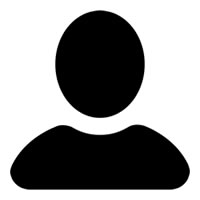
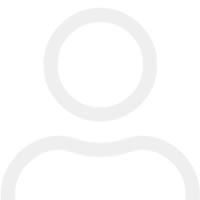
Se agrega sección de cumpleaños front y vista mysql

diff --git a/resources/css/home.css b/resources/css/home.css
@@ -62,3 +62,74 @@
 	padding: 2rem;
 	text-align: justify;
 }
+
+.tarjetaCumple {
+	display: table;
+    width: 90%;
+    min-height: 300px;
+    left: 0;
+    right: 0;
+    margin: 0 auto;
+	border-radius: 0.5rem;
+    border: solid 1px var(--gris);
+    -webkit-box-shadow: 0 5px 10px 0 var(--gris);
+    box-shadow: 0 5px 10px 0 var(--gris);
+    transition: all .5s ease;
+    background: var(--blanco);
+}
+
+.celdaCumple {
+	position: relative;
+	display: table-cell;
+	width: 100%;
+	height: 100%;
+	vertical-align: middle;
+	text-align: center;
+	padding: 1rem;
+}
+
+.fechaCumple {
+	position: absolute;
+	top: 5px;
+	left: 5px;
+	background: var(--bluegray);
+	background-image: linear-gradient(135deg, #5ee7df 0%, #b490ca 100%);
+	color: var(--blanco);
+	border-radius: 4px;
+	padding: 4px 8px;
+}
+
+.avatarCumple {
+	display: block;
+	width: 85px;
+	height: 85px;
+	background: var(--blanco);
+	overflow: hidden;
+	border-radius: 50%;
+	left: 0;
+	right: 0;
+	margin: 0 auto;
+	border: solid 1px var(--gris);
+}
+
+.nombreCumple {
+	margin: 0;
+	padding: 0;
+	font-weight: normal;
+	font-size: 1rem;
+	color: var(--negro);
+}
+
+.nombreCumple span {
+	display: block;
+	font-size: 0.7rem;
+	color: var(--oxford);
+}
+
+.deptoCumple {
+	margin: 0;
+	padding: 0;
+	font-family: var(--fuente-secundaria);
+	font-size: 0.8rem;
+	color: var(--bluegray);
+}

diff --git a/resources/css/app.css b/resources/css/app.css
@@ -474,7 +474,7 @@ body::-webkit-scrollbar-thumb {
 	border-top: solid 1px var(--gris);
 	padding: 5px;
 	min-width: 200px;
-	background: var(--oxford);
+	background: var(--negro);
 	border-radius: 0px 0px 0.5rem 0.5rem;
 	-moz-border-radius: 0px 0px 0.5rem 0.5rem;
 	-webkit-border-radius: 0px 0px 0.5rem 0.5rem;
@@ -528,7 +528,7 @@ body::-webkit-scrollbar-thumb {
 	font-weight: normal;
 	margin: 0px;
 	padding: 0px;
-	color: var(--oxford);
+	color: var(--bluegray);
 	text-align: center;
 }
 

diff --git a/resources/css/variables.css b/resources/css/variables.css
@@ -31,7 +31,7 @@
     --negro: #000;
     --blanco: #FFF;
     --gris: #ecf0f1;
-    --oxford: #585B5C;
+    --oxford: #ced6e0;
     --bluegray: #778ca3;
     --fondo: #F00;
 }

diff --git a/resources/views/auth/login.blade.php b/resources/views/auth/login.blade.php
@@ -20,7 +20,7 @@
                                     <label for="email" class="col-md-12 col-form-label">No. empleado</label>
 
                                     <div class="col-md-12">
-                                        <input id="email" type="text" class="form-control @error('email') is-invalid @enderror" name="email" value="{{ old('email') }}" required autocomplete="email" autofocus>
+                                        <input id="email" type="text" class="form-control @error('email') is-invalid @enderror" name="email" value="{{ old('email') }}" required autocomplete="off" autofocus />
 
                                         @error('email')
                                             <span class="invalid-feedback" role="alert">
@@ -34,7 +34,7 @@
                                     <label for="password" class="col-md-12 col-form-label">Contraseña</label>
 
                                     <div class="col-md-12">
-                                        <input id="password" type="password" class="form-control @error('password') is-invalid @enderror" name="password" required autocomplete="current-password">
+                                        <input id="password" type="password" class="form-control @error('password') is-invalid @enderror" name="password" required autocomplete="current-password" />
 
                                         @error('password')
                                             <span class="invalid-feedback" role="alert">

diff --git a/resources/views/welcome.blade.php b/resources/views/welcome.blade.php
@@ -173,4 +173,33 @@
 			</div>
 		</div>
 	</section>
+
+	@if (!Auth::guest())
+	<section class="container py-5">
+		<h3 class="subtitulo mt-5">¡Felicitaciones!</h3>
+		<h2 class="titulo mt-2">Ellos le han dado una vuelta más al sol.</h2>
+
+		<div class="row mt-5">
+			@foreach($parametros['cumples'] as $key=>$value)
+			<div class="col-3">
+				<div class="tarjetaCumple mb-4">
+					<div class="celdaCumple">
+						<div class="fechaCumple">
+							<i class="fas fa-birthday-cake"></i> {{ $value['nacimiento'] }}
+						</div>
+						<div class="avatarCumple">
+							<img src="{{ $value['avatar'] ?? asset('media/usuario-perfil.jpg') }}" class="img-fluid" />
+						</div>
+						<h3 class="nombreCumple mt-3">
+							{{ $value['nombre'] }}
+							<span>{{ $value['puesto'] }}</span>
+						</h3>
+						<h4 class="deptoCumple mt-3">{{ $value['departamento'] }}</h4>
+					</div>
+				</div>
+			</div>
+			@endforeach
+		</div>
+	</section>
+	@endif
 @endsection

diff --git a/routes/web.php b/routes/web.php
@@ -2,6 +2,7 @@
 
 use Illuminate\Support\Facades\Route;
 use App\Models\Avisos;
+use App\Models\Cumples;
 
 /*
 |--------------------------------------------------------------------------
@@ -18,7 +19,8 @@ Route::get('/', function () {
     $city = 'Tlaquepaque';
     $key = config('services.owm.key');
 
-    $parametros = ['avisos' => Avisos::all()->skip(0)->take(5)];
+    $parametros = ['avisos'  => Avisos::all()->skip(0)->take(5),
+                   'cumples' => Cumples::all()];
 
     /*$response = Http::get("https://api.openweathermap.org/data/2.5/weather?q=".$city."&lang=es"."&appid=".$key)->json();
     if($response['cod'] == "200") {

diff --git a/database/migrations/2024_03_20_175246_create_notices_table.php b/database/migrations/2024_03_20_175246_create_notices_table.php
@@ -17,7 +17,7 @@ return new class extends Migration
             $table->id();
             $table->foreignId('categoria_id');
             $table->string('titulo');
-            $table->string('resumen');
+            $table->text('resumen');
             $table->text('contenido');
             $table->string('imagen');
             $table->tinyInteger('estatus');

diff --git a/app/Models/Cumples.php b/app/Models/Cumples.php
@@ -1,0 +1,11 @@
+<?php
+
+namespace App\Models;
+
+use Illuminate\Database\Eloquent\Factories\HasFactory;
+use Illuminate\Database\Eloquent\Model;
+
+class Cumples extends Model
+{
+    use HasFactory;
+}
